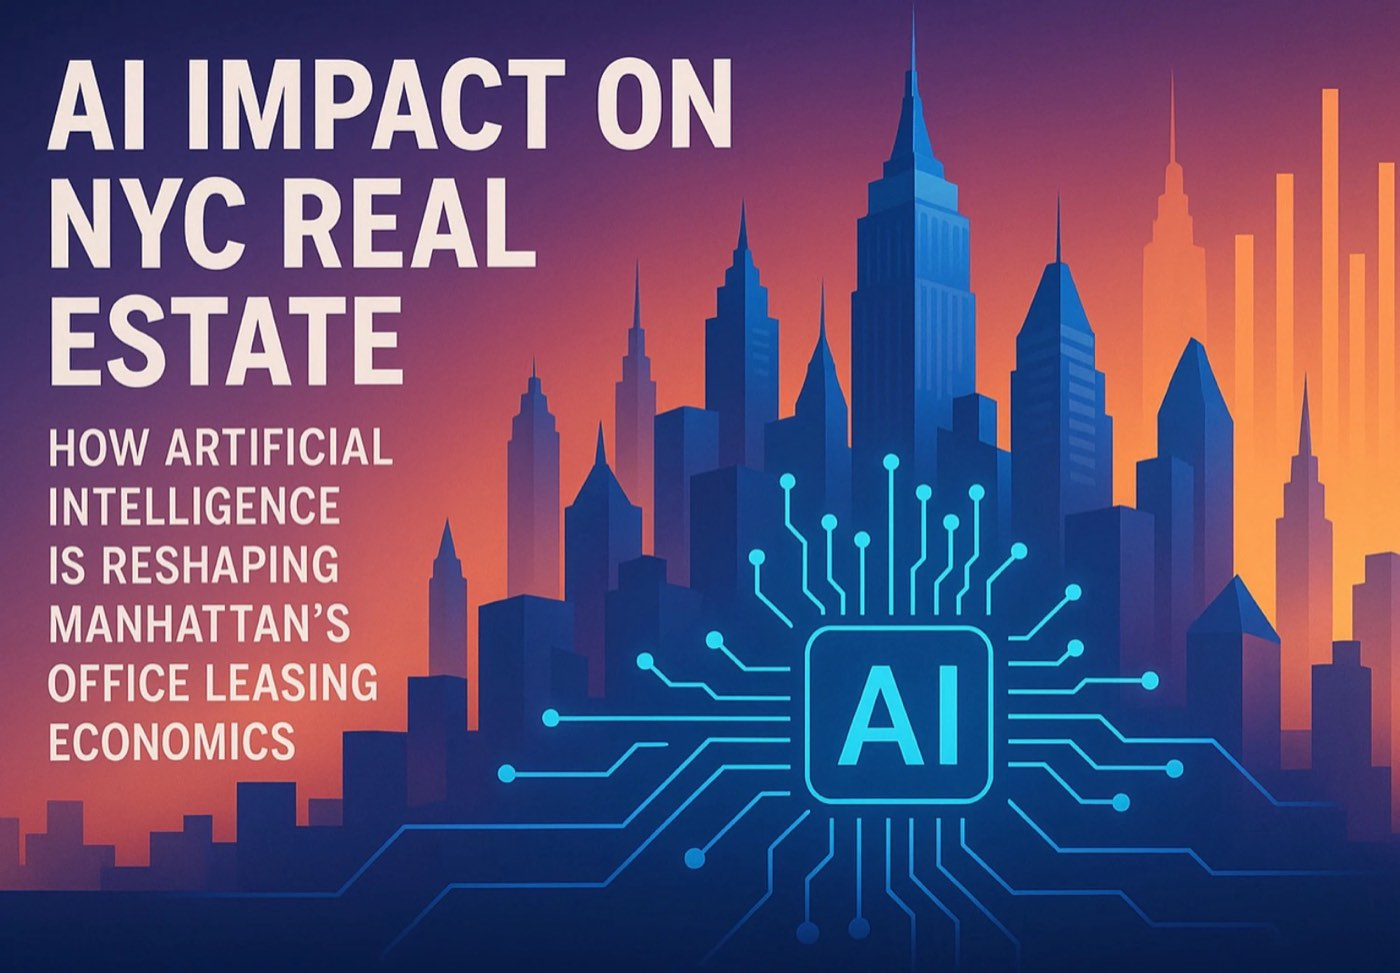
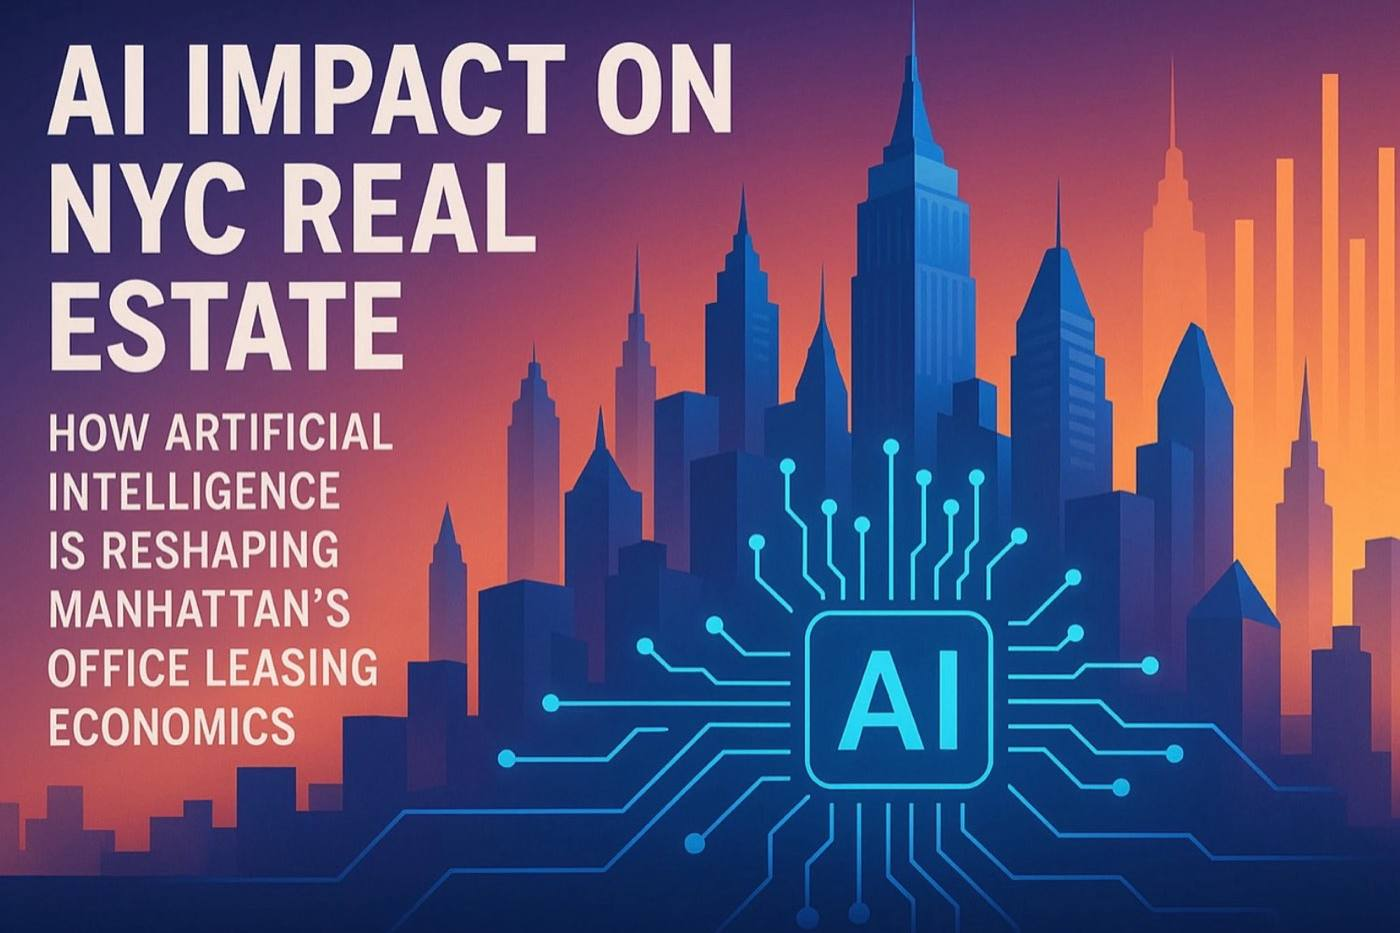
Even out the entries: one frame for every picture, one height for every row
The column read as ragged because entry height followed text length -
285px against 615px, more than double. Three changes bring the spread to
70px, with fourteen of the fifteen at exactly 452:

- every picture is cropped to the same 3:2 frame at 1400x933, so the art
  column never changes shape. Cropping to a common frame also dropped the
  payload from 2.3MB to 1.5MB.
- metric labels are captions again rather than sentences, and the two
  longest findings are tightened.
- entries take a minimum height and centre their text in it.

The AI-in-HR illustration is cropped from its left edge rather than its
centre, because that is where its title sits.

diff --git a/research/index.html b/research/index.html
@@ -38,9 +38,9 @@
       <div class="chip-row"><span class="chip chip--live">Forthcoming</span><span class="chip">Journal of Management Information Systems</span><span class="chip">Two field experiments</span><span class="chip chip--kind" style="--c:#8FA6FF">LLM / MLLM</span></div>
       <h3>Knowing Is Not Enough: Information Retrievability as a Precondition to Effective LLM Oversight</h3>
       <p class="authors"><b>Fu, X.</b>, Ramasubbu, N., &amp; Galletta, D.</p>
-      <p class="finding">Reading the system's own account of why it errs is not enough. People made to <b>write that explanation themselves</b> caught meaningfully more errors than people handed the same information to read. And the habit wears off: over a run of daily use, detection slipped a little each day &mdash; unless something was there to put the knowledge back within reach.</p>
+      <p class="finding">Reading the system's own account of why it errs is not enough. People made to <b>write that explanation themselves</b> caught meaningfully more errors. And the habit wears off, a little each day, unless something puts the knowledge back within reach.</p>
       <p class="proj-links"><a href="https://arxiv.org/abs/2609.01976">Preprint on arXiv &rarr;</a> <a href="https://papers.ssrn.com/sol3/papers.cfm?abstract_id=7392398">Preprint on SSRN &rarr;</a></p>
-      <div class="metrics"><div class="metric"><span class="metric-value">+10.6pp</span><span class="metric-label">more errors caught writing your own explanation than reading the system&rsquo;s (0.78 vs 0.68, N = 400)</span></div><div class="metric"><span class="metric-value">&minus;2.5pp</span><span class="metric-label">detection lost per day of routine use &mdash; slowed to &minus;1.7 when a retrieval cue was present</span></div></div>
+      <div class="metrics"><div class="metric"><span class="metric-value">+10.6pp</span><span class="metric-label">more errors caught writing your own explanation than reading one (N = 400)</span></div><div class="metric"><span class="metric-value">&minus;2.5pp</span><span class="metric-label">detection lost per day of use; &minus;1.7 with a retrieval cue</span></div></div>
     </div>
     <div class="entry-art"><img src="/assets/img/retrieval.jpg" alt="A hand annotating a printed AI response beside a laptop, marking a claim to check."></div>
   </article>
@@ -84,7 +84,7 @@
       <h3>Detecting AI Errors: Transfer of Training and Reflective Practice</h3>
       <p class="authors"><b>Fu, X.</b>, Ramasubbu, N., &amp; Galletta, D.</p>
       <p class="finding">A warning that makes you reflect <b>while</b> you work lifts decision quality far above working with no AI at all. In the field experiment, the same information delivered as an after-the-fact review left people below the no-AI baseline. When the checking happens matters more than what the checking says.</p>
-      <div class="metrics"><div class="metric"><span class="metric-value">0.90&ndash;0.95</span><span class="metric-label">decision quality when reflection happens during the task</span></div><div class="metric"><span class="metric-value">0.45</span><span class="metric-label">decision quality with no AI at all</span></div><div class="metric"><span class="metric-value">0.34</span><span class="metric-label">decision quality when the review comes afterwards</span></div></div>
+      <div class="metrics"><div class="metric"><span class="metric-value">0.90&ndash;0.95</span><span class="metric-label">with reflection during the task</span></div><div class="metric"><span class="metric-value">0.45</span><span class="metric-label">with no AI at all</span></div><div class="metric"><span class="metric-value">0.34</span><span class="metric-label">with the review afterwards</span></div></div>
     </div>
     <div class="entry-art"><img src="/assets/img/errors.jpg" alt="An isometric illustration of people inspecting code on a laptop with a magnifying glass over a flagged defect."></div>
   </article>
@@ -95,7 +95,7 @@
       <h3>AI Authenticity: How AI Disclosure and Authenticity Signals Shape Crowdfunding Valuation</h3>
       <p class="authors">Yang, J., <b>Fu, X.</b>, Ramasubbu, N., &amp; Fan, C.</p>
       <p class="finding">A platform made AI disclosure mandatory and funding fell across it. Projects that had built their pitch on human craft were <b>shielded from the general suspicion and punished hardest when they actually disclosed</b>. Authenticity works as armour right up until the moment it is contradicted.</p>
-      <div class="metrics"><div class="metric"><span class="metric-value">12,521</span><span class="metric-label">crowdfunding projects around the disclosure mandate</span></div><div class="metric"><span class="metric-value">~1 in 10</span><span class="metric-label">of the projects that could disclose actually did</span></div></div>
+      <div class="metrics"><div class="metric"><span class="metric-value">12,521</span><span class="metric-label">projects around the disclosure mandate</span></div><div class="metric"><span class="metric-value">~1 in 10</span><span class="metric-label">of those that could disclose actually did</span></div></div>
     </div>
     <div class="entry-art"><img src="/assets/img/creativity.jpg" alt="A woodworker&rsquo;s bench with a hand-turned bowl and shavings, beside a laptop showing the listing for it."></div>
   </article>
@@ -106,7 +106,7 @@
       <h3>Epistemic Calibration Model</h3>
       <p class="authors">Rai, A., <b>Fu, X.</b>, &amp; Xia, Y.</p>
       <p class="finding">Ask a room of people the same programming question and you get genuinely different answers. Ask a model the same question many times and the answers cluster &mdash; and <b>newer models cluster tighter, not looser</b>. Broadening the prompt, raising the temperature and keeping prior answers out of the context pull some of the variety back, but nowhere near all of it.</p>
-      <div class="metrics"><div class="metric"><span class="metric-value">375</span><span class="metric-label">Stack Overflow questions, sampled after every model&rsquo;s training cutoff</span></div><div class="metric"><span class="metric-value">2.4&ndash;6.8%</span><span class="metric-label">of the narrowing those three levers recover &mdash; the answers stay far more alike than human ones</span></div></div>
+      <div class="metrics"><div class="metric"><span class="metric-value">375</span><span class="metric-label">Stack Overflow questions, sampled after every training cutoff</span></div><div class="metric"><span class="metric-value">2.4&ndash;6.8%</span><span class="metric-label">of the narrowing those levers recover &mdash; still far more alike than human answers</span></div></div>
     </div>
     <div class="entry-art"><img src="/assets/img/secd.jpg" alt="A lightbulb made up of many small differently coloured figures."></div>
   </article>
@@ -137,7 +137,7 @@
       <h3>Service Robots in Hospitality: Spatial and Data Privacy in Boundary-Spanning Encounters</h3>
       <p class="authors">Zhang, A., <b>Fu, X.</b>, Maruping, L. M., &amp; Liu, S.</p>
       <p class="finding">When a robot rather than a person brings something to a hotel-room door, guests protect two kinds of privacy in opposite directions at once: they <b>open the door wider and go quiet</b>. Physical guard drops, informational guard goes up. Any service design that treats &ldquo;privacy&rdquo; as one dial will get one of them wrong.</p>
-      <div class="metrics"><div class="metric"><span class="metric-value">&minus;0.79</span><span class="metric-label">spatial boundary protection &mdash; the door opens wider</span></div><div class="metric"><span class="metric-value">+1.03</span><span class="metric-label">data boundary protection &mdash; the guest says less</span></div></div>
+      <div class="metrics"><div class="metric"><span class="metric-value">&minus;0.79</span><span class="metric-label">spatial guard &mdash; the door opens wider</span></div><div class="metric"><span class="metric-value">+1.03</span><span class="metric-label">informational guard &mdash; the guest says less</span></div></div>
     </div>
     <div class="entry-art"><img src="/assets/img/service.jpg" alt="A hotel guest in a white robe reaching into the open lid of a delivery robot in a carpeted corridor."></div>
   </article>
@@ -148,7 +148,7 @@
       <h3>When Better Opportunities Backfire: Worker Responses to Parallel AI Deployment</h3>
       <p class="authors"><b>Fu, X.</b>, Luo, S., Ramasubbu, N., Shen, P., Wang, X., &amp; Wang, Y.</p>
       <p class="finding">An insurer handed its cold calls to an AI voice agent, leaving human agents a better set of leads to work. Their conversion on the day's first calls <b>fell</b>. Expecting something better next makes the thing in your hand easier to drop: early in the shift agents spent measurably less time on each promising lead, and were readier to push it back to the shared queue.</p>
-      <div class="metrics"><div class="metric"><span class="metric-value">&minus;4.5pp</span><span class="metric-label">fall in conversion on the first calls of the day</span></div><div class="metric"><span class="metric-value">&minus;13%</span><span class="metric-label">less time spent on those early high-intent calls</span></div><div class="metric"><span class="metric-value">567k</span><span class="metric-label">outbound calls around a sharp AI routing expansion</span></div></div>
+      <div class="metrics"><div class="metric"><span class="metric-value">&minus;4.5pp</span><span class="metric-label">fall in conversion on the first calls of the day</span></div><div class="metric"><span class="metric-value">&minus;13%</span><span class="metric-label">less time spent on those early high-intent calls</span></div><div class="metric"><span class="metric-value">567k</span><span class="metric-label">outbound calls around the AI routing change</span></div></div>
     </div>
     <div class="entry-art"><img src="/assets/img/sales.jpg" alt="A humanoid AI head in profile beside a woman wearing a call-centre headset, a speech waveform between them."></div>
   </article>
@@ -158,8 +158,8 @@
       <div class="chip-row"><span class="chip chip--venue">Under review</span><span class="chip">Full-text census and experiments</span><span class="chip chip--kind" style="--c:#FF7874">Agentic AI</span></div>
       <h3>Generative Stimulus Sampling: Relational Randomization for Repeated-Exposure Digital Interventions</h3>
       <p class="authors"><b>Fu, X.</b>, Ramasubbu, N., Maruping, L. M., Wang, G., Xie, J., &amp; Wang, K.</p>
-      <p class="finding">Across every randomized experiment published in <em>MIS Quarterly</em> and <em>Information Systems Research</em>, most studies that show a participant the same treatment more than once <b>never change its wording</b>. So when an effect fades on repetition, the published record cannot say whether the intervention wore off or the sentence did. Sampling the wording, rather than fixing it, separates the two.</p>
-      <div class="metrics"><div class="metric"><span class="metric-value">425</span><span class="metric-label">randomized experiments in the full-text census</span></div><div class="metric"><span class="metric-value">53%</span><span class="metric-label">re-expose the same participant to the same stimulus</span></div></div>
+      <p class="finding">Across every randomized experiment in <em>MIS Quarterly</em> and <em>Information Systems Research</em>, most studies that repeat a treatment <b>never change its wording</b>. So when an effect fades, the record cannot say whether the intervention wore off or the sentence did.</p>
+      <div class="metrics"><div class="metric"><span class="metric-value">425</span><span class="metric-label">randomized experiments in the census</span></div><div class="metric"><span class="metric-value">53%</span><span class="metric-label">re-expose the same participant to the same stimulus</span></div></div>
     </div>
     <div class="entry-art"><img src="/assets/img/stimulus.jpg" alt="The GSS Research Studio public preview, asking what repeated-message experiment to build."></div>
   </article>

diff --git a/index.html b/index.html
@@ -97,9 +97,9 @@
       <div class="chip-row"><span class="chip chip--live">Forthcoming</span><span class="chip">Journal of Management Information Systems</span><span class="chip">Two field experiments</span><span class="chip chip--kind" style="--c:#8FA6FF">LLM / MLLM</span></div>
       <h3>Knowing Is Not Enough: Information Retrievability as a Precondition to Effective LLM Oversight</h3>
       <p class="authors"><b>Fu, X.</b>, Ramasubbu, N., &amp; Galletta, D.</p>
-      <p class="finding">Reading the system's own account of why it errs is not enough. People made to <b>write that explanation themselves</b> caught meaningfully more errors than people handed the same information to read. And the habit wears off: over a run of daily use, detection slipped a little each day &mdash; unless something was there to put the knowledge back within reach.</p>
+      <p class="finding">Reading the system's own account of why it errs is not enough. People made to <b>write that explanation themselves</b> caught meaningfully more errors. And the habit wears off, a little each day, unless something puts the knowledge back within reach.</p>
       <p class="proj-links"><a href="https://arxiv.org/abs/2609.01976">Preprint on arXiv &rarr;</a> <a href="https://papers.ssrn.com/sol3/papers.cfm?abstract_id=7392398">Preprint on SSRN &rarr;</a></p>
-      <div class="metrics"><div class="metric"><span class="metric-value">+10.6pp</span><span class="metric-label">more errors caught writing your own explanation than reading the system&rsquo;s (0.78 vs 0.68, N = 400)</span></div><div class="metric"><span class="metric-value">&minus;2.5pp</span><span class="metric-label">detection lost per day of routine use &mdash; slowed to &minus;1.7 when a retrieval cue was present</span></div></div>
+      <div class="metrics"><div class="metric"><span class="metric-value">+10.6pp</span><span class="metric-label">more errors caught writing your own explanation than reading one (N = 400)</span></div><div class="metric"><span class="metric-value">&minus;2.5pp</span><span class="metric-label">detection lost per day of use; &minus;1.7 with a retrieval cue</span></div></div>
     </div>
     <div class="entry-art"><img src="/assets/img/retrieval.jpg" alt="A hand annotating a printed AI response beside a laptop, marking a claim to check."></div>
   </article>
@@ -143,7 +143,7 @@
       <h3>Detecting AI Errors: Transfer of Training and Reflective Practice</h3>
       <p class="authors"><b>Fu, X.</b>, Ramasubbu, N., &amp; Galletta, D.</p>
       <p class="finding">A warning that makes you reflect <b>while</b> you work lifts decision quality far above working with no AI at all. In the field experiment, the same information delivered as an after-the-fact review left people below the no-AI baseline. When the checking happens matters more than what the checking says.</p>
-      <div class="metrics"><div class="metric"><span class="metric-value">0.90&ndash;0.95</span><span class="metric-label">decision quality when reflection happens during the task</span></div><div class="metric"><span class="metric-value">0.45</span><span class="metric-label">decision quality with no AI at all</span></div><div class="metric"><span class="metric-value">0.34</span><span class="metric-label">decision quality when the review comes afterwards</span></div></div>
+      <div class="metrics"><div class="metric"><span class="metric-value">0.90&ndash;0.95</span><span class="metric-label">with reflection during the task</span></div><div class="metric"><span class="metric-value">0.45</span><span class="metric-label">with no AI at all</span></div><div class="metric"><span class="metric-value">0.34</span><span class="metric-label">with the review afterwards</span></div></div>
     </div>
     <div class="entry-art"><img src="/assets/img/errors.jpg" alt="An isometric illustration of people inspecting code on a laptop with a magnifying glass over a flagged defect."></div>
   </article>
@@ -154,7 +154,7 @@
       <h3>AI Authenticity: How AI Disclosure and Authenticity Signals Shape Crowdfunding Valuation</h3>
       <p class="authors">Yang, J., <b>Fu, X.</b>, Ramasubbu, N., &amp; Fan, C.</p>
       <p class="finding">A platform made AI disclosure mandatory and funding fell across it. Projects that had built their pitch on human craft were <b>shielded from the general suspicion and punished hardest when they actually disclosed</b>. Authenticity works as armour right up until the moment it is contradicted.</p>
-      <div class="metrics"><div class="metric"><span class="metric-value">12,521</span><span class="metric-label">crowdfunding projects around the disclosure mandate</span></div><div class="metric"><span class="metric-value">~1 in 10</span><span class="metric-label">of the projects that could disclose actually did</span></div></div>
+      <div class="metrics"><div class="metric"><span class="metric-value">12,521</span><span class="metric-label">projects around the disclosure mandate</span></div><div class="metric"><span class="metric-value">~1 in 10</span><span class="metric-label">of those that could disclose actually did</span></div></div>
     </div>
     <div class="entry-art"><img src="/assets/img/creativity.jpg" alt="A woodworker&rsquo;s bench with a hand-turned bowl and shavings, beside a laptop showing the listing for it."></div>
   </article>

diff --git a/assets/site.css b/assets/site.css
@@ -342,7 +342,7 @@ button:focus-visible{ outline:3px solid var(--blue); outline-offset:2px }
   border-top:var(--rule-w) solid var(--ink); border-left:var(--rule-w) solid var(--ink);
 }
 .metric{
-  flex:1 1 170px; padding:12px 14px;
+  flex:1 1 150px; padding:11px 13px;
   border-right:var(--rule-w) solid var(--ink); border-bottom:var(--rule-w) solid var(--ink);
 }
 .metric-value{
@@ -353,7 +353,7 @@ button:focus-visible{ outline:3px solid var(--blue); outline-offset:2px }
 }
 .metric-label{
   font-family:"IBM Plex Mono",monospace;
-  font-size:10px; letter-spacing:.1em; text-transform:uppercase;
+  font-size:9.5px; letter-spacing:.1em; text-transform:uppercase;
   color:var(--muted); display:block; line-height:1.35;
 }
 
@@ -500,14 +500,17 @@ button:focus-visible{ outline:3px solid var(--blue); outline-offset:2px }
   padding:20px var(--pad) 28px; display:flex; flex-direction:column; gap:14px;
   border-left:8px solid var(--c); max-width:none;
 }
-.entry-body h3{ font-size:clamp(21px,2.4vw,30px); max-width:30ch }
+.entry-body h3{ font-size:clamp(20px,2.2vw,27px); max-width:36ch; line-height:.98 }
+.entry-body .proj-links{ font-size:11px }
 .entry-body .finding{ max-width:74ch }
 .entry-body .finding.is-tbc{ color:var(--muted); font-style:italic }
 .entry-body .metrics{ margin-top:4px; max-width:900px }
 
 /* an entry that has a photograph puts it alongside the text */
 @media(min-width:900px){
-  .entry.has-art{ display:grid; grid-template-columns:1fr 1fr; align-items:stretch }
+  /* one height for every entry, so the column of them reads as a column */
+  .entry.has-art{ display:grid; grid-template-columns:1fr 1fr; align-items:stretch; min-height:452px }
+  .entry.has-art .entry-body{ justify-content:center }
   .entry.has-art .entry-art{ border-left:var(--rule-w) solid var(--rule) }
   /* every other entry puts its picture on the left */
   .entry.art-left .entry-art{ order:-1; border-left:0; border-right:var(--rule-w) solid var(--rule) }
